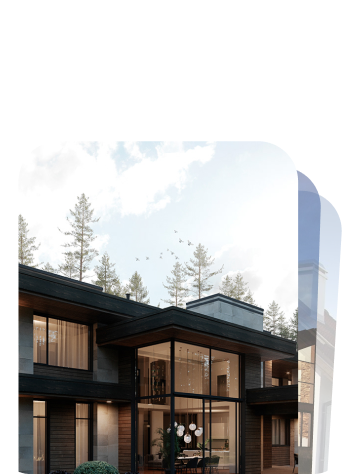
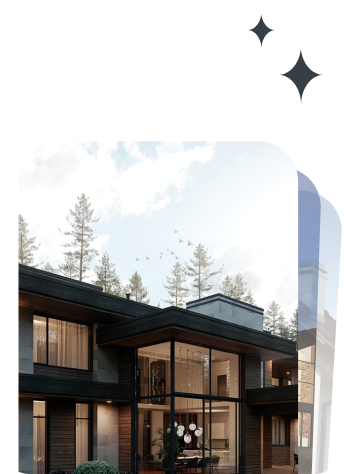
Update

Changed region(s): [[0.814, 0.1181, 0.9302, 0.2068], [0.7267, 0.0295, 0.7849, 0.0886]]

diff --git a/src/pages/StartPage.vue b/src/pages/StartPage.vue
@@ -30,7 +30,7 @@ import Page from "../components/Page.vue";
             </div>
 
             <div class="grid grid-cols-2 grid-rows-2 gap-x-[17px] gap-y-[14px] h-[240px]">
-                <a href="#/catalog" class="flex flex-col justify-between bg-(--card) bg-[url(/images/card-1.png),url(/images/card-stars.png)] bg-no-repeat bg-[auto_100%,auto_45px] bg-position-[bottom,122px_13px] px-4 py-7 row-span-full rounded-[15px]">
+                <a href="#/catalog" class="flex flex-col justify-between bg-(--card) bg-[url(/images/card-1.png)] bg-no-repeat bg-size-[auto_100%] bg-bottom px-4 py-7 row-span-full rounded-[15px]">
                     <div class="flex items-center gap-2">
                         <img src="/images/search.svg" width="20" alt="">
                         <span class="font-semibold text-xl text-[#4A362F] tracking-[0.35px]">Каталог</span>
@@ -68,7 +68,7 @@ import Page from "../components/Page.vue";
 
         <div class="flex items-center gap-4 bg-(--border) p-3 rounded-[15px]">
             <img src="/images/message.svg" width="40" alt="">
-            <span class="font-semibold text-lg/[20px] text-white tracking-[0.35px]">О нас</span>
+            <span class="font-semibold text-lg/[20px] text-white tracking-[0.35px]">Баннер</span>
             <img class="ml-auto" src="/images/arrow.svg" width="20" alt="">
         </div>
 
@@ -79,7 +79,7 @@ import Page from "../components/Page.vue";
                     <img class="p-3 rounded-[12px] border border-(--card) bg-[#C9D2D14D]" src="/images/call.svg" alt="">
 
                     <div>
-                        <div class="text-[14px]/[22px] text-[#384040] font-semibold">Телефон для связи:</div>
+                        <div class="text-[14px]/[22px] text-[#384040] font-semibold">Предложение 1</div>
                         <div class="text-[12px]/[16px]">8 (343) 213-06-05</div>
                     </div>
                 </div>
@@ -88,25 +88,7 @@ import Page from "../components/Page.vue";
                     <img class="p-3 rounded-[12px] border border-(--card) bg-[#C9D2D14D]" src="/images/call.svg" alt="">
 
                     <div>
-                        <div class="text-[14px]/[22px] text-[#384040] font-semibold">Телефон для связи:</div>
-                        <div class="text-[12px]/[16px]">8 (343) 213-06-05</div>
-                    </div>
-                </div>
-
-                <div class="flex items-center gap-3 bg-[#F9F9F9] rounded-[15px] p-3 w-[280px] shrink-0">
-                    <img class="p-3 rounded-[12px] border border-(--card) bg-[#C9D2D14D]" src="/images/call.svg" alt="">
-
-                    <div>
-                        <div class="text-[14px]/[22px] text-[#384040] font-semibold">Телефон для связи:</div>
-                        <div class="text-[12px]/[16px]">8 (343) 213-06-05</div>
-                    </div>
-                </div>
-
-                <div class="flex items-center gap-3 bg-[#F9F9F9] rounded-[15px] p-3 w-[280px] shrink-0">
-                    <img class="p-3 rounded-[12px] border border-(--card) bg-[#C9D2D14D]" src="/images/call.svg" alt="">
-
-                    <div>
-                        <div class="text-[14px]/[22px] text-[#384040] font-semibold">Телефон для связи:</div>
+                        <div class="text-[14px]/[22px] text-[#384040] font-semibold">Предложение 2</div>
                         <div class="text-[12px]/[16px]">8 (343) 213-06-05</div>
                     </div>
                 </div>
@@ -127,7 +109,7 @@ import Page from "../components/Page.vue";
 
         <div class="flex items-center gap-4 bg-(--border) p-3 rounded-[15px]">
             <img src="/images/message.svg" width="40" alt="">
-            <span class="font-semibold text-lg/[20px] text-white tracking-[0.35px]">О нас</span>
+            <span class="font-semibold text-lg/[20px] text-white tracking-[0.35px]">Баннер</span>
         </div>
     </Page>
 </template>
